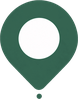
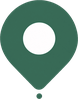
Mapa pequeno sem ferramentas, botão de expandir maior, e pinos novos
## As quatro ferramentas saem do mapa pequeno

No mapa da viagem — 220 pontos de altura — havia quatro botões numa coluna
mais o de expandir: metade da lateral ocupada por comandos, num mapa que
serve para ver o carro a aproximar-se e mais nada.

Quem quer mexer no mapa expande-o primeiro. Ali há espaço e as quatro fazem
sentido; no pequeno, o único comando que interessa é «mostra-me isto em
grande».

Feito com uma propriedade `ferramentas` que por omissão é TRUE — assim o
mapa grande, o de escolher no mapa e qualquer outro sítio que use este
componente ficam exactamente como estavam. Só o pequeno pede o contrário.

## O botão de expandir cresce

36 -> 46, com o ícone de 18 -> 24. Ficou o ÚNICO comando daquele mapa, e um
único comando tem de se ver. É de propósito maior do que os 40 das
ferramentas do mapa grande: ali é um entre quatro, aqui é o caminho para
tudo o resto.

## Pinos novos

Os de «um novo pino». 46x59 (eram 46x58) e a âncora passou de 0,9684 para
0,9689 — medida outra vez no ficheiro, como das outras vezes. Também os
pequenos das paragens alternativas, que saem da mesma arte.

diff --git a/mobile/src/components/MapaGoogle.js b/mobile/src/components/MapaGoogle.js
@@ -56,7 +56,7 @@ const TINTA = { teal: '#007E78', tealAnel: '#009490', coral: '#FC5430' };
 // `scripts/recortar-novos-icones.py` produz — e é aqui que tem de bater
 // certo, porque a MIRA desenha a mesma imagem numa vista com estas medidas.
 const PINO_L = 46;
-const PINO_A = 58;
+const PINO_A = 59;
 const CARTAO_L = 150;
 
 // O PINO DENTRO DO MAPA É UMA IMAGEM, e não o componente <Pino>.
@@ -171,10 +171,10 @@ const ALTERNATIVA_PERTO_M = 300;
 //
 // Agora é um número medido no PRÓPRIO ficheiro: o centro do ponto de baixo,
 // que é o que assenta no chão. Medido com
-// `scripts/recortar-novos-icones.py` a produzir 46x58, deu 0,9684.
+// `scripts/recortar-novos-icones.py` a produzir 46x59, deu 0,9689.
 // (Mudou com os pinos novos de 22/09: o desenho é menos alto e o ponto
 // está mais em baixo — 0,941 apontaria acima do sítio.)
-const ANCORA_Y = 0.9684;
+const ANCORA_Y = 0.9689;
 
 // QUANTO A MIRA SOBE PARA A PONTA CAIR NO CENTRO DO ECRÃ.
 //
@@ -491,6 +491,17 @@ export default function MapaGoogle({
   //
   // Cada troço é { de, para, qual }: `de` é onde a pessoa apontou, `para` é
   // onde o carro chega, e `qual` diz se é a recolha ou a largada.
+  // AS FERRAMENTAS DO MAPA (mira, bússola, seguir, satélite) são OPCIONAIS
+  // (23/09/2026, pedido do Simão).
+  //
+  // No mapa pequeno da viagem — 220 pontos de altura — eram quatro botões
+  // numa coluna mais o de expandir: metade da lateral ocupada por comandos,
+  // num mapa que serve para ver o carro a aproximar-se e mais nada.
+  //
+  // Quem quer mexer no mapa expande-o primeiro. Ali há espaço e as quatro
+  // ferramentas fazem sentido; no pequeno, o único comando que interessa é
+  // «mostra-me isto em grande».
+  ferramentas = true,
   trocosAPe = [],
   // AS OUTRAS PARAGENS do mesmo sítio, quando o Simão definiu mais do que
   // uma. Cada uma traz `qual` ('origem' ou 'destino'), porque as duas pontas
@@ -1542,7 +1553,7 @@ export default function MapaGoogle({
       {/* Em cima à direita, porque o canto de baixo é do botão de expandir
           no MapaExpandivel — e um mapa não pode ter dois botões no mesmo
           sítio conforme o ecrã onde está. */}
-      {FERRAMENTAS_DO_GOOGLE ? null : (
+      {FERRAMENTAS_DO_GOOGLE || !ferramentas ? null : (
         <Pressable
           style={[styles.botaoMim, aLocalizar && styles.botaoMimOcupado, naColuna(0)]}
           onPress={irParaMim}
@@ -1558,7 +1569,7 @@ export default function MapaGoogle({
           é um modo, não uma acção, e um modo tem de se ver que está a
           correr — senão a pessoa não percebe porque é que o mapa "mexe
           sozinho" e não sabe como o parar. */}
-      {FERRAMENTAS_DO_GOOGLE ? null : (
+      {FERRAMENTAS_DO_GOOGLE || !ferramentas ? null : (
         <Pressable
           style={[styles.botaoSeguir, aSeguirBussola && styles.botaoSeguirActivo, naColuna(2)]}
           onPress={() => setASeguirBussola((v) => !v)}
@@ -1599,7 +1610,7 @@ export default function MapaGoogle({
 
           Durante a viagem a fotografia não acrescenta nada: vê-se a linha e a
           rua, e o resto só pesa. */}
-      {modoEscolha || mostrarSatelite ? (
+      {ferramentas && (modoEscolha || mostrarSatelite) ? (
         <Pressable
           style={[
             styles.botaoSatelite,
@@ -1629,24 +1640,26 @@ export default function MapaGoogle({
           que existe: quem nunca rodou o mapa nunca descobre que pode.
           A agulha aponta sempre ao norte, e por isso diz duas coisas ao
           mesmo tempo: para onde é o norte, e quanto o mapa está torto. */}
-      <Pressable
-        style={[
-          styles.botaoBussola,
-          // O botão do Google ocupa o primeiro lugar da coluna e é maior do
-          // que os nossos (48 contra 40). A agulha desce oito pontos para
-          // não lhe encostar.
-          FERRAMENTAS_DO_GOOGLE && { top: spacing.sm + 56 },
-          naColuna(1),
-        ]}
-        onPress={aoNorte}
-        hitSlop={8}
-        accessibilityRole="button"
-        accessibilityLabel={t('voltarAoNorte')}
-      >
-        <View style={{ transform: [{ rotate: `${-rumo}deg` }] }}>
-          <Agulha />
-        </View>
-      </Pressable>
+      {!ferramentas ? null : (
+        <Pressable
+          style={[
+            styles.botaoBussola,
+            // O botão do Google ocupa o primeiro lugar da coluna e é maior do
+            // que os nossos (48 contra 40). A agulha desce oito pontos para
+            // não lhe encostar.
+            FERRAMENTAS_DO_GOOGLE && { top: spacing.sm + 56 },
+            naColuna(1),
+          ]}
+          onPress={aoNorte}
+          hitSlop={8}
+          accessibilityRole="button"
+          accessibilityLabel={t('voltarAoNorte')}
+        >
+          <View style={{ transform: [{ rotate: `${-rumo}deg` }] }}>
+            <Agulha />
+          </View>
+        </Pressable>
+      )}
 
       {/* ── A MIRA ────────────────────────────────────────────────────
           O pino fica FIXO no centro do ecrã e o mapa é que se move por

diff --git a/mobile/src/components/MapaExpandivel.js b/mobile/src/components/MapaExpandivel.js
@@ -72,6 +72,15 @@ export default function MapaExpandivel({
           liveLabel={liveLabel}
           veiculoVivo={veiculoVivo}
           height={height}
+          // SEM AS QUATRO FERRAMENTAS no mapa pequeno (23/09/2026, pedido do
+          // Simão). Num mapa de 220 pontos de altura, quatro botões numa
+          // coluna mais o de expandir ocupavam metade da lateral — e este
+          // mapa serve para ver o carro a aproximar-se, não para o manobrar.
+          //
+          // Quem quer mexer no mapa expande-o primeiro, e é para isso que o
+          // botão de expandir ficou maior: passa a ser o único comando aqui,
+          // e tem de se ver que é ele.
+          ferramentas={false}
         />
         {cracha()}
         <Pressable style={styles.expandir} onPress={() => setAberto(true)} hitSlop={8}>
@@ -166,9 +175,13 @@ const criarEstilos = () =>
       position: 'absolute',
       right: spacing.sm,
       bottom: spacing.sm,
-      width: 36,
-      height: 36,
-      borderRadius: 18,
+      // 46 E NÃO 36 (23/09/2026). Ficou o ÚNICO comando do mapa pequeno, e
+      // um único comando tem de se ver. É também maior do que os 40 das
+      // ferramentas do mapa grande, de propósito: ali é um entre quatro,
+      // aqui é o caminho para tudo o resto.
+      width: 46,
+      height: 46,
+      borderRadius: 23,
       backgroundColor: colors.white,
       alignItems: 'center',
       justifyContent: 'center',
@@ -178,7 +191,7 @@ const criarEstilos = () =>
       shadowOffset: { width: 0, height: 2 },
       elevation: 4,
     },
-    expandirIcone: { width: 18, height: 18, tintColor: colors.teal },
+    expandirIcone: { width: 24, height: 24, tintColor: colors.teal },
     cheio: { flex: 1, backgroundColor: colors.paper },
     // NA MESMA COLUNA DOS BOTÕES DO MAPA, e não por cima deles.
     //

diff --git a/mobile/scripts/recortar-novos-icones.py b/mobile/scripts/recortar-novos-icones.py
@@ -84,8 +84,8 @@ ICONES = {
     # perdiam-se no meio dos nomes e dos ícones que o Google desenha por
     # baixo. Quarenta por cento maiores, que é o que os põe a mandar na
     # imagem sem taparem a rua.
-    'pino-origem': ('novo pino recolha.jpeg', 'mapa', 46),
-    'pino-destino': ('Novo pino destino.jpeg', 'mapa', 46),
+    'pino-origem': ('um novo pino recolha.jpeg', 'mapa', 46),
+    'pino-destino': ('um novo pino destino.jpeg', 'mapa', 46),
     # OS PINOS PEQUENOS, para as paragens ALTERNATIVAS (22/09/2026).
     #
     # Eram um círculo cinzento igual para os dois lados. O Simão pediu um
@@ -95,8 +95,8 @@ ICONES = {
     # qual dos dois pontos se referia.
     #
     # 26 e não 46: tem de se ler como «também aqui», não como «é aqui».
-    'pino-origem-pequeno': ('novo pino recolha.jpeg', 'mapa', 26),
-    'pino-destino-pequeno': ('Novo pino destino.jpeg', 'mapa', 26),
+    'pino-origem-pequeno': ('um novo pino recolha.jpeg', 'mapa', 26),
+    'pino-destino-pequeno': ('um novo pino destino.jpeg', 'mapa', 26),
 }
 
 # OS VEÍCULOS NÃO PASSAM POR AQUI, e é o sítio certo para dizer porquê.
